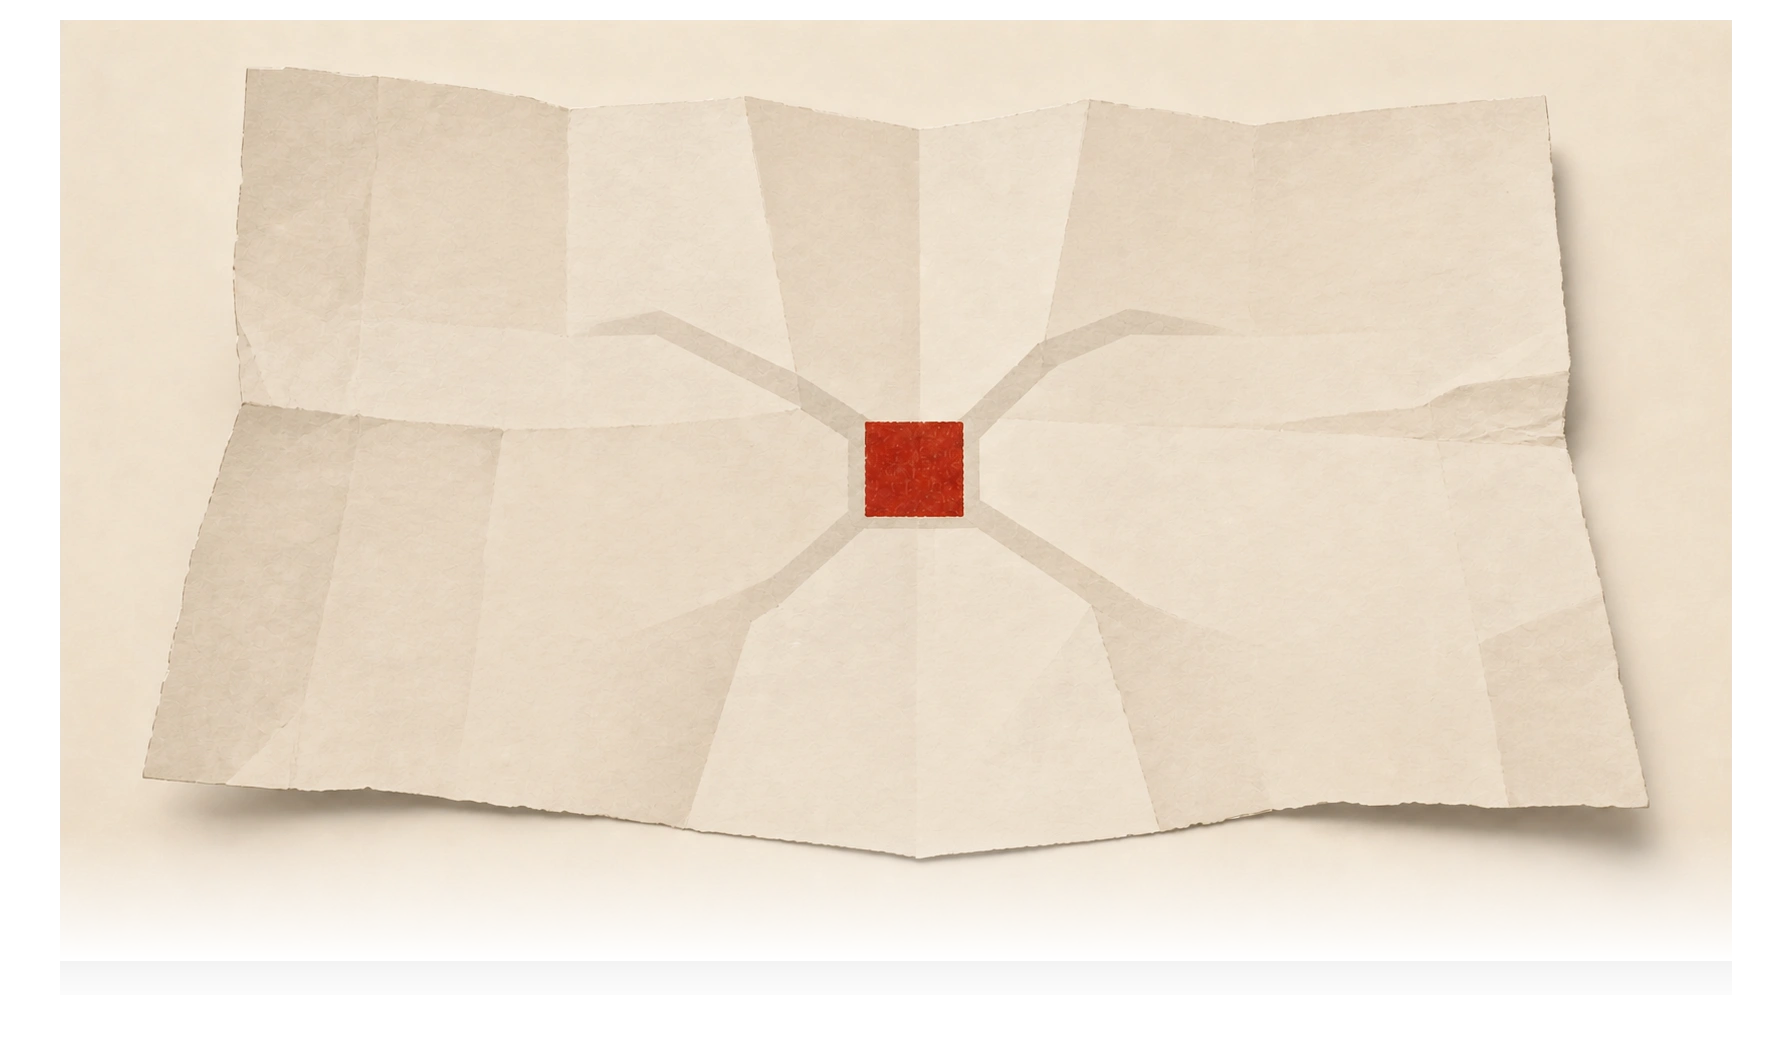
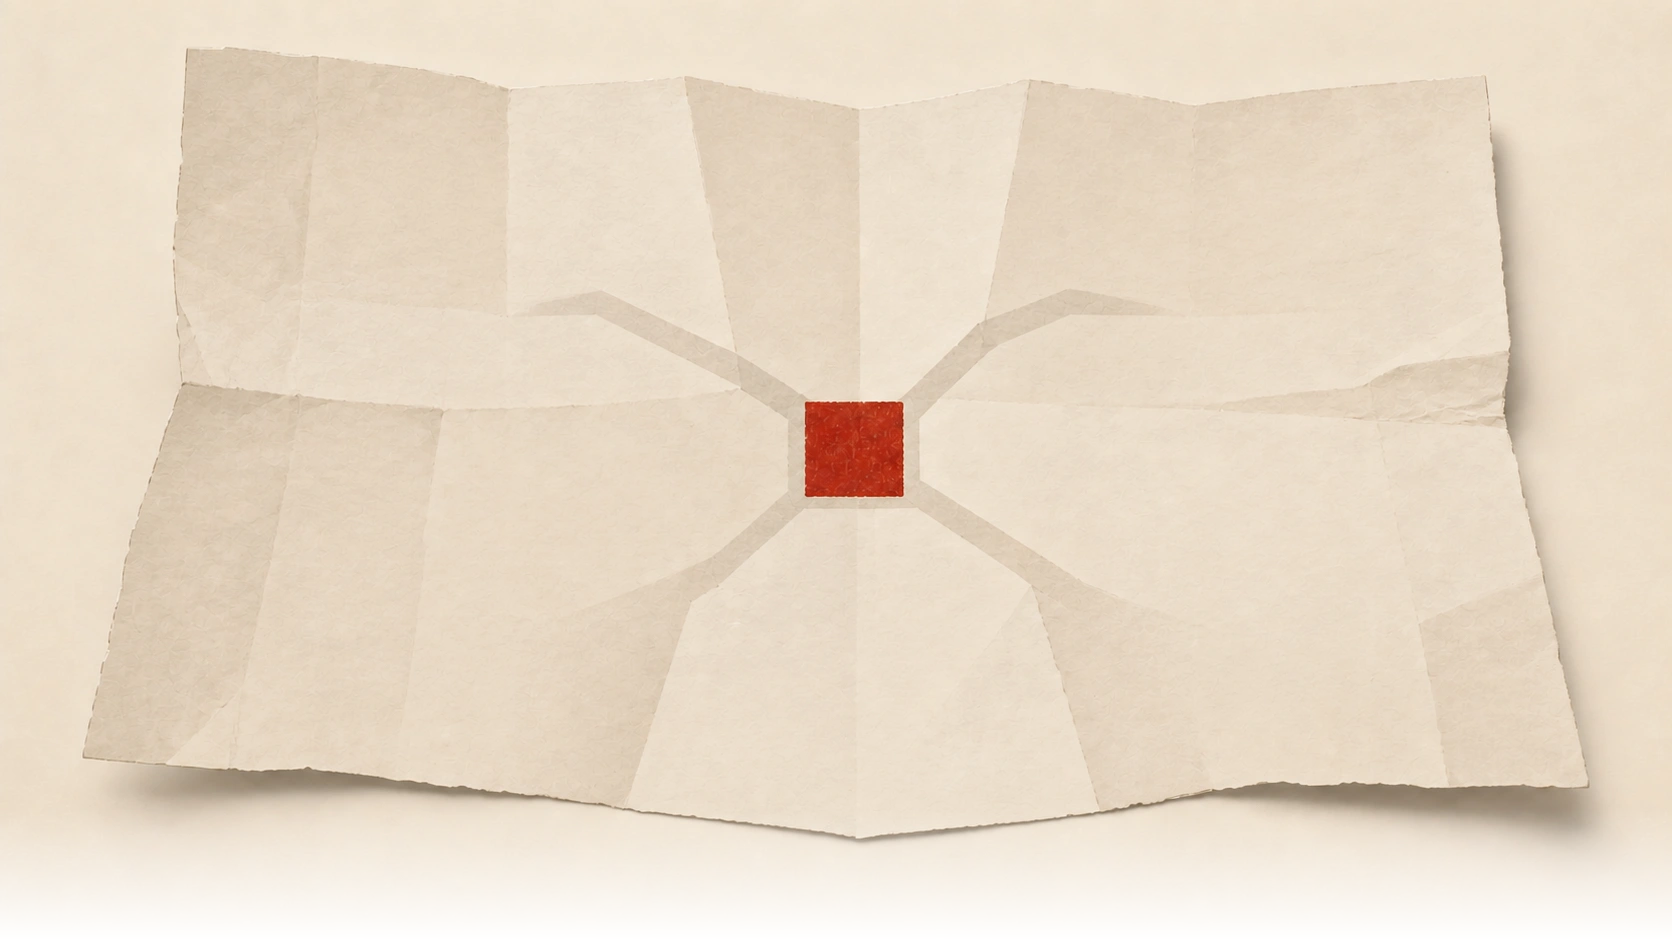
恢复折页地图原始尺寸:上一版把阴影烘焙进图时扩了画布导致宽高比变化、地图主体显示变小。改为三层结构——地图本体保持原尺寸(仅烘焙底部渐隐,不动几何),阴影拆成同尺寸独立图层垫在下方(不参与展开动画,展开完成后淡入),布局/contain/transform-origin 全部与最初 CSS 滤镜版几何一致;mobile 隐藏阴影层

diff --git a/website/style.css b/website/style.css
@@ -217,7 +217,9 @@ html[data-theme] .mascot-three { opacity: 0; transform: translate(-50%, -50%) sc
 
 .release-layer { overflow: visible; border: 0; background: transparent; }
 .release-map { position: absolute; inset: -7% -10%; isolation: isolate; }
-.release-map-paper { position: absolute; z-index: 0; inset: 0; width: 100%; height: 100%; object-fit: contain; transform-origin: 50% 52%; will-change: opacity, transform; } /* 阴影与底部渐隐已烘焙进图片素材,勿再加 filter/mask——展开动画缩放时会反复重光栅化导致掉帧 */
+/* 阴影与底部渐隐已烘焙进素材:阴影是独立图层(不参与展开动画,展开完成后淡入),地图本体无任何 filter/mask——大幅 scale 动画中挂滤镜会反复重光栅化导致掉帧 */
+.release-map-shadow { position: absolute; z-index: -1; inset: 0; width: 100%; height: 100%; object-fit: contain; opacity: 0; will-change: opacity; }
+.release-map-paper { position: absolute; z-index: 0; inset: 0; width: 100%; height: 100%; object-fit: contain; transform-origin: 50% 52%; will-change: opacity, transform; }
 .release-destination { position: absolute; z-index: 2; display: grid; place-items: center; width: 25%; height: 27%; padding: 0 1.5% 2.4%; color: #2d2823; text-align: center; pointer-events: none; transform-origin: center; transition: transform .4s var(--ease-smooth-out), color .24s ease; }
 .release-destination > img { display: block; width: 78%; height: 80%; object-fit: contain; filter: drop-shadow(0 8px 7px rgba(37,29,22,.1)); transition: transform .4s var(--ease-smooth-out), filter .4s ease; }
 .release-title { position: absolute; left: 0; right: 0; bottom: 0; font-size: clamp(14px, 1.55vw, 25px); font-weight: 540; letter-spacing: .025em; transition: transform .38s var(--ease-smooth-out), opacity .22s ease; }
@@ -302,6 +304,7 @@ html[data-scene="4"], html[data-scene="4"] body, .scene-four { background: linea
   .themes-layer { animation: themes-journey 1s linear both; animation-timeline: scroll(root block); }
   .release-layer { animation: release-journey 1s linear both; animation-timeline: scroll(root block); }
   .release-map-paper { animation: map-paper-journey 1s linear both; animation-timeline: scroll(root block); }
+  .release-map-shadow { animation: map-shadow-journey 1s linear both; animation-timeline: scroll(root block); }
   .release-destination { animation: map-destination-journey 1s linear both; animation-timeline: scroll(root block); }
 
   @keyframes hero-tagline-journey {
@@ -331,6 +334,7 @@ html[data-scene="4"], html[data-scene="4"] body, .scene-four { background: linea
     88% { opacity: 1; transform: scaleX(1.025) scaleY(1); }
     92%, 100% { opacity: 1; transform: scale(1); }
   }
+  @keyframes map-shadow-journey { 0%, 91% { opacity: 0; } 96%, 100% { opacity: 1; } }
   @keyframes map-destination-journey {
     0%, 85% { opacity: 0; transform: translateY(22px) scale(.82); }
     91%, 100% { opacity: 1; transform: translateY(0) scale(1); }
@@ -347,7 +351,9 @@ html[data-scene="4"], html[data-scene="4"] body, .scene-four { background: linea
   html[data-scene="1"] .blank-layer, html[data-scene="2"] .experience-layer, html[data-scene="3"] .themes-layer, html[data-scene="4"] .release-layer { opacity: 1; }
   .release-map-paper { opacity: 0; transform: scaleX(.12) scaleY(.74); }
   .release-destination { opacity: 0; transform: translateY(22px) scale(.82); }
+  .release-map-shadow { transition: opacity .4s ease .45s; }
   html[data-scene="4"] .release-map-paper { animation: map-paper-open .9s var(--ease-smooth-out) both; }
+  html[data-scene="4"] .release-map-shadow { opacity: 1; }
   html[data-scene="4"] .release-destination { animation: map-destination-open .46s var(--ease-smooth-out) .5s both; }
   @keyframes map-paper-open { to { opacity: 1; transform: scale(1); } }
   @keyframes map-destination-open { to { opacity: 1; transform: translateY(0) scale(1); } }
@@ -429,6 +435,7 @@ html[data-scene="4"], html[data-scene="4"] body, .scene-four { background: linea
   html[data-scene="4"] .journey-stage { top: 53%; width: 100vw; height: calc(100dvh - 58px); aspect-ratio: auto; transform: translate3d(-50%, -50%, 0) !important; }
   .release-layer { overflow: hidden; }
   .release-map { inset: 0; }
+  .release-map-shadow { display: none; }
   .release-map-paper { width: 100%; height: 100%; object-fit: cover; opacity: .68 !important; -webkit-mask-image: none; mask-image: none; }
   .release-destination { width: 42%; height: 22%; padding: 0 2% 5%; animation: none !important; opacity: 1 !important; transform: none !important; }
   .release-destination > img { width: 70%; height: 74%; }

diff --git a/website/index.html b/website/index.html
@@ -115,6 +115,7 @@
 
       <div class="journey-layer release-layer" aria-label="魏碑的更多入口">
         <div class="release-map">
+          <img class="release-map-shadow" src="assets/第四幕-折页地图-阴影.webp" alt="" aria-hidden="true" loading="lazy" decoding="async">
           <img class="release-map-paper" src="assets/第四幕-折页地图-v1.webp" srcset="assets/mobile/第四幕-折页地图-v1.webp 1080w, assets/第四幕-折页地图-v1.webp 1672w" sizes="100vw" alt="" aria-hidden="true" loading="lazy" decoding="async">
           <a class="release-destination release-qa" href="qa.html" aria-label="Q&A">
             <img src="assets/第四幕-Webi动作-QA-v1.webp" alt="Webi 查看问题纸条" loading="lazy" decoding="async">

diff --git a/website/app.js b/website/app.js
@@ -235,7 +235,7 @@ let sceneFourPreloaded = false;
 const preloadSceneFour = () => {
   if (sceneFourPreloaded) return;
   sceneFourPreloaded = true;
-  ['第四幕-折页地图-v1', '第四幕-下载纸签-v4', '第四幕-Webi动作-QA-v1', '第四幕-Webi动作-Labs-v1', '第四幕-Webi动作-官方群-v1', '第四幕-Webi动作-反馈-v1', 'Webi-第四幕-下载'].forEach(name => {
+  ['第四幕-折页地图-v1', '第四幕-折页地图-阴影', '第四幕-下载纸签-v4', '第四幕-Webi动作-QA-v1', '第四幕-Webi动作-Labs-v1', '第四幕-Webi动作-官方群-v1', '第四幕-Webi动作-反馈-v1', 'Webi-第四幕-下载'].forEach(name => {
     const img = new Image();
     img.decoding = 'async';
     img.src = `assets/${name}.webp`;
